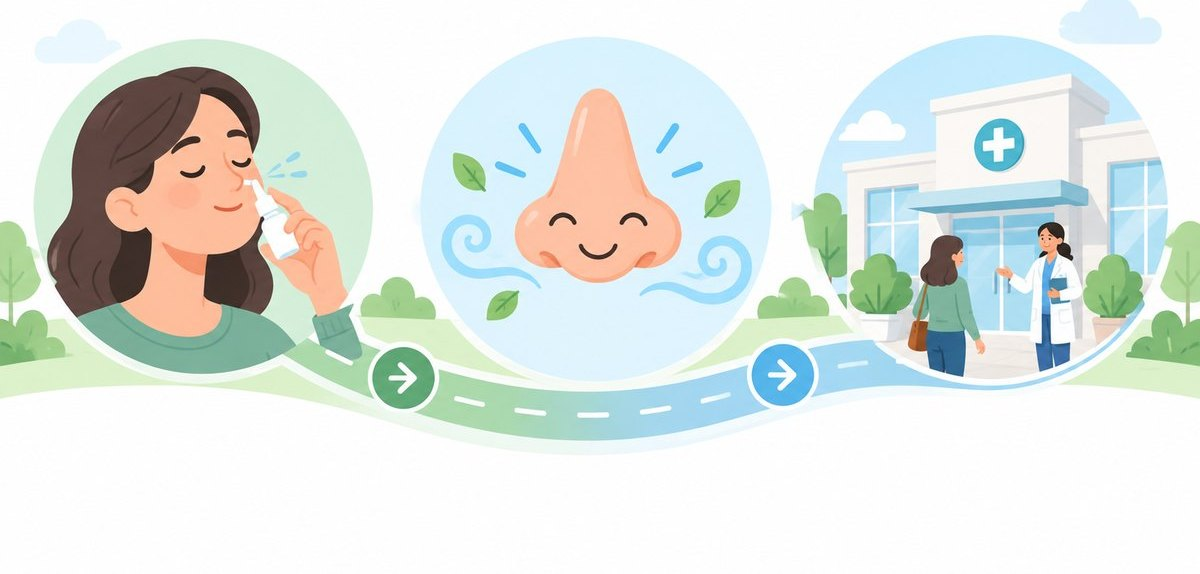
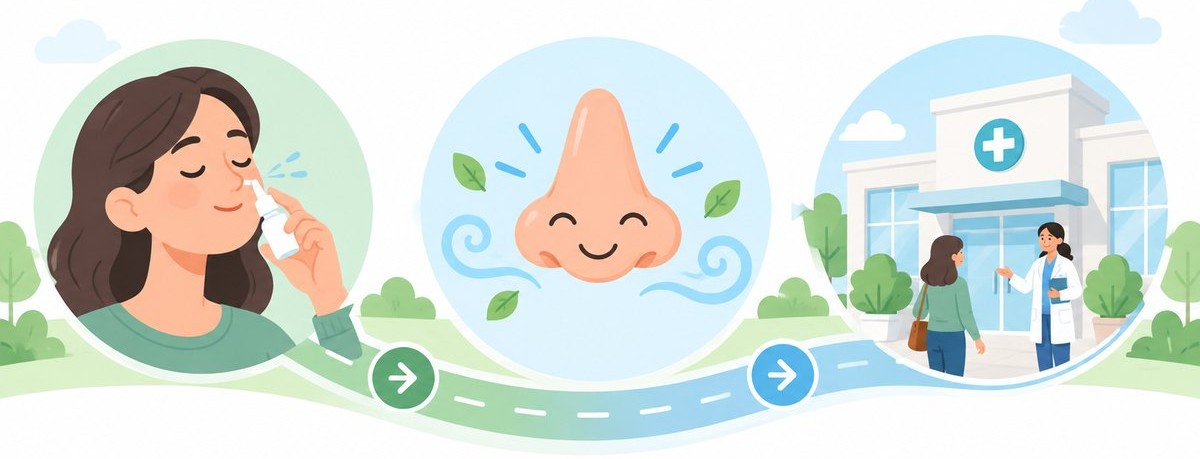
Class 색상 3단계, 회피요법 슬라이드 분리, 슬라이드 8 확대
- Class 색: 1·2 / 3·4 / 5·6 세 가지 색으로 통일, 범례도 묶어서 표시
- 회피요법: 항원 묶음마다 슬라이드 한 장, 설명 글 없이 2x2 그림에서 중요한 3컷만 골라 가로 배치
- 슬라이드 목록을 결과에 따라 동적으로 구성 (buildSlides)
- 슬라이드 8: 그림 아래 여백까지 잘라내고 20% 확대
- "조절하지 않으면…" 문구를 슬라이드 2에서 동반 증상 슬라이드로 이동

Claude-Session: https://claude.ai/code/session_015ywGNUdfsdrnWY8h5XkxCA

diff --git a/src/slides/slides.tsx b/src/slides/slides.tsx
@@ -3,7 +3,7 @@ import { useRise, useReveal, easeOut } from './anim';
 import { Frame, Title, Sub, Em, Tag, ClassLegend, Illust, Footer } from './ui';
 import type { Buckets } from '../lib/classify';
 import { birchCrossReaction } from '../lib/classify';
-import { avoidanceCards } from '../lib/avoidance';
+import { avoidanceCards, type AvoidCard } from '../lib/avoidance';
 import { config } from '../config';
 import type { FamilyResult } from '../lib/types';
 
@@ -105,7 +105,6 @@ export function S2Model() {
   const a = easeOut(r(10, 20));
   const b = easeOut(r(40, 20));
   const c = useRise(90, 24);
-  const d = useRise(125, 24);
   return (
     <Frame>
       <Title>알레르기 비염은 어떤 병인가요?</Title>
@@ -142,12 +141,7 @@ export function S2Model() {
       >
         <Illust src="02b-control-not-cure.jpg" style={{ width: 100, height: 100, borderRadius: 18 }} />
         <div>
-          <div>
-            그래서 목표는 <Em>완치</Em>가 아니라 <Em color="#D62828">잘 조절하는 것</Em>입니다
-          </div>
-          <div style={{ fontSize: 30, fontWeight: 700, color: '#A4161A', marginTop: 8, ...d }}>
-            조절하지 않으면 귀, 목을 거쳐 심장과 폐까지 번집니다.
-          </div>
+          그래서 목표는 <Em>완치</Em>가 아니라 <Em color="#D62828">잘 조절하는 것</Em>입니다
         </div>
       </div>
     </Frame>
@@ -309,61 +303,48 @@ function SeasonRow({
   );
 }
 
-/* 5. 회피요법 */
-export function S5Avoid({ d }: { d: SlideData }) {
-  const cards = avoidanceCards(d.results);
+/* 5. 회피요법 — 항원 묶음마다 한 장, 그림만 */
+export function S5AvoidOne({ c }: { c: AvoidCard }) {
+  const r = useReveal();
+  const single = c.images.length === 1;
+  const fams = c.families.slice(0, 8).join(', ') + (c.families.length > 8 ? ` 외 ${c.families.length - 8}개` : '');
   return (
     <Frame>
-      <Title>원인 항원 피하기</Title>
-      <Sub>완전히 없앨 수는 없지만, 노출을 줄이면 약이 훨씬 잘 듣습니다.</Sub>
+      <Title>{c.title} 피하기</Title>
+      <Sub>{fams}</Sub>
       <div
         style={{
-          display: 'grid',
-          gridTemplateColumns: `repeat(${cards.length <= 3 ? cards.length || 1 : Math.ceil(cards.length / 2)}, 1fr)`,
-          gridAutoRows: '1fr',
-          gap: 20,
+          display: 'flex',
+          gap: 40,
           flex: 1,
           minHeight: 0,
+          alignItems: 'center',
+          justifyContent: 'center',
+          paddingBottom: 10,
         }}
       >
-        {cards.length === 0 && <div style={{ fontSize: 30, color: COLORS.sub }}>양성 항원이 없어 회피요법 카드가 없습니다.</div>}
-        {cards.slice(0, 6).map((c, i) => (
-          <AvoidCardView key={c.key} c={c} delay={15 + i * 15} compact={cards.length > 3} />
-        ))}
+        {c.images.map((src, i) => {
+          const t = easeOut(r(10 + i * 14, 18));
+          return (
+            <Illust
+              key={src}
+              src={src}
+              style={{
+                width: single ? '58%' : undefined,
+                flex: single ? undefined : '1 1 0',
+                minWidth: 0,
+                height: '100%',
+                maxHeight: '100%',
+                objectFit: 'contain',
+                borderRadius: 28,
+                opacity: t,
+                transform: `translateY(${(1 - t) * 30}px)`,
+              }}
+            />
+          );
+        })}
       </div>
     </Frame>
-  );
-}
-
-function AvoidCardView({
-  c,
-  delay,
-  compact,
-}: {
-  c: ReturnType<typeof avoidanceCards>[number];
-  delay: number;
-  compact: boolean;
-}) {
-  const st = useRise(delay);
-  const r = useReveal();
-  const img = compact ? 88 : 120;
-  return (
-    <div style={{ background: '#fff', borderRadius: 24, padding: compact ? 18 : 26, border: `2px solid ${COLORS.line}`, minHeight: 0, overflow: 'hidden', ...st }}>
-      <div style={{ display: 'flex', gap: 16, alignItems: 'center' }}>
-        <Illust src={c.image} style={{ width: img, height: img, borderRadius: 16 }} />
-        <div>
-          <div style={{ fontSize: compact ? 28 : 34, fontWeight: 900 }}>{c.title}</div>
-          <div style={{ fontSize: compact ? 18 : 20, color: COLORS.sub }}>{c.families.slice(0, 8).join(', ')}{c.families.length > 8 ? ` 외 ${c.families.length - 8}개` : ''}</div>
-        </div>
-      </div>
-      <ul style={{ margin: compact ? '10px 0 0' : '18px 0 0', paddingLeft: 28, fontSize: compact ? 21 : 25, lineHeight: 1.5 }}>
-        {c.tips.map((t, i) => (
-          <li key={i} style={{ opacity: easeOut(r(delay + 12 + i * 6, 12)) }}>
-            {t}
-          </li>
-        ))}
-      </ul>
-    </div>
   );
 }
 
@@ -377,10 +358,30 @@ const COMORBID = [
 ];
 export function S6Comorbid() {
   const r = useReveal();
+  const warn = useRise(8, 22);
   return (
     <Frame>
       <Title>함께 나타날 수 있는 증상·질환</Title>
       <Sub>비염만 있는 게 아니라 아래 증상이 같이 있는 경우가 많습니다. 해당되면 말씀해 주세요.</Sub>
+      <div
+        style={{
+          display: 'flex',
+          alignItems: 'center',
+          gap: 16,
+          alignSelf: 'flex-start',
+          margin: '2px 0 14px',
+          padding: '12px 28px',
+          background: COLORS.beige,
+          borderRadius: 18,
+          fontSize: 30,
+          fontWeight: 800,
+          color: '#9D0208',
+          ...warn,
+        }}
+      >
+        <span style={{ fontSize: 30 }}>⚠</span>
+        조절하지 않으면 귀, 목을 거쳐 심장과 폐까지 번집니다.
+      </div>
       <div style={{ display: 'flex', gap: 30, flex: 1, alignItems: 'center' }}>
         <Illust src="06-comorbid.jpg" fade="right" style={{ width: 608, height: 512, objectFit: 'cover', objectPosition: 'left center', marginLeft: -40 }} />
         <div style={{ flex: 1, display: 'flex', flexDirection: 'column', gap: 18 }}>
@@ -469,7 +470,7 @@ export function S8Timeline() {
   return (
     <Frame>
       <Title>언제 좋아지고, 언제 다시 오나요?</Title>
-      <Illust src="08-timeline-crop.jpg" style={{ width: '70%', height: 'auto', margin: '-6px auto 0', borderRadius: 20 }} />
+      <Illust src="08-timeline-crop.jpg" style={{ width: '84%', height: 'auto', margin: '-6px auto 0', borderRadius: 20 }} />
       <div style={{ position: 'relative', marginTop: 30, flex: 1 }}>
         <div
           style={{
@@ -536,14 +537,29 @@ export function S9Future() {
   );
 }
 
-export const SLIDES: { key: string; title: string; render: (d: SlideData) => React.ReactNode; frames: number }[] = [
-  { key: 'diagnosis', title: '진단', render: (d) => <S1Diagnosis d={d} />, frames: 90 },
-  { key: 'model', title: '질병 모델', render: () => <S2Model />, frames: 170 },
-  { key: 'report', title: '결과지', render: (d) => <S3Report d={d} />, frames: 60 },
-  { key: 'allergens', title: '원인 항원', render: (d) => <S4Allergens d={d} />, frames: 150 },
-  { key: 'avoid', title: '회피요법', render: (d) => <S5Avoid d={d} />, frames: 150 },
-  { key: 'comorbid', title: '동반 증상', render: () => <S6Comorbid />, frames: 120 },
-  { key: 'treatment', title: '치료 계획', render: () => <S7Treatment />, frames: 100 },
-  { key: 'timeline', title: '효과·재진', render: () => <S8Timeline />, frames: 100 },
-  { key: 'future', title: '향후 옵션', render: () => <S9Future />, frames: 90 },
-];
+export interface SlideDef {
+  key: string;
+  title: string;
+  render: (d: SlideData) => React.ReactNode;
+  frames: number;
+}
+
+export function buildSlides(d: SlideData): SlideDef[] {
+  const avoid: SlideDef[] = avoidanceCards(d.results).map((c) => ({
+    key: `avoid-${c.key}`,
+    title: `회피 — ${c.title}`,
+    render: () => <S5AvoidOne c={c} />,
+    frames: 90,
+  }));
+  return [
+    { key: 'diagnosis', title: '진단', render: (x) => <S1Diagnosis d={x} />, frames: 90 },
+    { key: 'model', title: '질병 모델', render: () => <S2Model />, frames: 170 },
+    { key: 'report', title: '결과지', render: (x) => <S3Report d={x} />, frames: 60 },
+    { key: 'allergens', title: '원인 항원', render: (x) => <S4Allergens d={x} />, frames: 150 },
+    ...avoid,
+    { key: 'comorbid', title: '동반 증상', render: () => <S6Comorbid />, frames: 130 },
+    { key: 'treatment', title: '치료 계획', render: () => <S7Treatment />, frames: 100 },
+    { key: 'timeline', title: '효과·재진', render: () => <S8Timeline />, frames: 100 },
+    { key: 'future', title: '향후 옵션', render: () => <S9Future />, frames: 90 },
+  ];
+}

diff --git a/src/components/SlideShow.tsx b/src/components/SlideShow.tsx
@@ -1,7 +1,7 @@
 import { useCallback, useEffect, useMemo, useRef, useState } from 'react';
 import { Player, type PlayerRef } from '@remotion/player';
 import { RemotionAnim, StaticAnim } from '../slides/anim';
-import { SLIDES, type SlideData } from '../slides/slides';
+import { buildSlides, type SlideData } from '../slides/slides';
 import { W, H, FPS } from '../slides/theme';
 
 interface Props {
@@ -11,14 +11,16 @@ interface Props {
 }
 
 function SlideComp({ data, index }: { data: SlideData; index: number }) {
-  return <RemotionAnim>{SLIDES[index].render(data)}</RemotionAnim>;
+  const slides = useMemo(() => buildSlides(data), [data]);
+  return <RemotionAnim>{slides[index].render(data)}</RemotionAnim>;
 }
 
 export function SlideShow({ data, onExit, saveStatus }: Props) {
   const [i, setI] = useState(0);
   const [printing, setPrinting] = useState(false);
   const ref = useRef<PlayerRef>(null);
-  const n = SLIDES.length;
+  const slides = useMemo(() => buildSlides(data), [data]);
+  const n = slides.length;
 
   const next = useCallback(() => setI((x) => Math.min(n - 1, x + 1)), [n]);
   const prev = useCallback(() => setI((x) => Math.max(0, x - 1)), []);
@@ -42,11 +44,11 @@ export function SlideShow({ data, onExit, saveStatus }: Props) {
       if (done) return; // seekTo가 다시 ended를 일으키므로 한 번만
       done = true;
       p.pause();
-      p.seekTo(SLIDES[i].frames - 1);
+      p.seekTo(slides[i].frames - 1);
     };
     p.addEventListener('ended', onEnded);
     return () => p.removeEventListener('ended', onEnded);
-  }, [i]);
+  }, [i, slides]);
 
   useEffect(() => {
     if (!printing) return;
@@ -64,10 +66,10 @@ export function SlideShow({ data, onExit, saveStatus }: Props) {
   if (printing) {
     return (
       <div className="print-root">
-        {SLIDES.map((s, k) => (
+        {slides.map((s, k) => (
           <div className="print-page" key={s.key}>
             <div className="print-scale">
-              <StaticAnim>{SLIDES[k].render(data)}</StaticAnim>
+              <StaticAnim>{slides[k].render(data)}</StaticAnim>
             </div>
           </div>
         ))}
@@ -79,7 +81,7 @@ export function SlideShow({ data, onExit, saveStatus }: Props) {
     <div className="show" onClick={next}>
       <div className="show-top" onClick={(e) => e.stopPropagation()}>
         <span className="counter">
-          {i + 1} / {n} · {SLIDES[i].title}
+          {i + 1} / {n} · {slides[i].title}
         </span>
         <span className="save">{saveStatus}</span>
         <button onClick={prev} disabled={i === 0} title="이전 (←)">
@@ -101,7 +103,7 @@ export function SlideShow({ data, onExit, saveStatus }: Props) {
           ref={ref}
           component={SlideComp}
           inputProps={inputProps}
-          durationInFrames={SLIDES[i].frames}
+          durationInFrames={slides[i].frames}
           fps={FPS}
           compositionWidth={W}
           compositionHeight={H}

diff --git a/src/lib/avoidance.ts b/src/lib/avoidance.ts
@@ -4,6 +4,8 @@ export interface AvoidCard {
   key: string;
   title: string;
   image: string;
+  /** 슬라이드에 가로로 배치할 그림 (중요한 순서) */
+  images: string[];
   tips: string[];
   /** 이 카드에 해당하는 항원 family 목록 */
   families: string[];
@@ -24,6 +26,7 @@ export function avoidanceCards(results: FamilyResult[]): AvoidCard[] {
       key: 'mite',
       title: '집먼지진드기',
       image: '05-avoid-mite.jpg',
+      images: ['05-avoid-mite-1.jpg', '05-avoid-mite-2.jpg', '05-avoid-mite-3.jpg'],
       families: mite.map((r) => r.family),
       tips: [
         '침구는 55~60℃ 뜨거운 물로 1~2주마다 세탁',
@@ -39,6 +42,7 @@ export function avoidanceCards(results: FamilyResult[]): AvoidCard[] {
       key: 'pet',
       title: '동물 털·비듬',
       image: '05-avoid-pet.jpg',
+      images: ['05-avoid-pet-1.jpg', '05-avoid-pet-2.jpg', '05-avoid-pet-3.jpg'],
       families: pet.map((r) => r.family),
       tips: [
         '침실에는 동물이 들어오지 않게',
@@ -54,6 +58,7 @@ export function avoidanceCards(results: FamilyResult[]): AvoidCard[] {
       key: 'mold',
       title: '곰팡이',
       image: '05-avoid-mold.jpg',
+      images: ['05-avoid-mold-1.jpg', '05-avoid-mold-2.jpg', '05-avoid-mold-3.jpg'],
       families: mold.map((r) => r.family),
       tips: [
         '욕실·주방은 사용 후 환풍기, 물기 제거',
@@ -68,7 +73,8 @@ export function avoidanceCards(results: FamilyResult[]): AvoidCard[] {
     cards.push({
       key: 'roach',
       title: '바퀴벌레',
-      image: '05-avoid-mold.jpg',
+      image: '04-perennial.jpg',
+      images: ['04-perennial.jpg'],
       families: ['바퀴벌레'],
       tips: ['음식물은 밀폐 보관, 싱크대 물기 제거', '틈새 막기·전문 방제', '쓰레기는 바로 비우기'],
     });
@@ -84,6 +90,7 @@ export function avoidanceCards(results: FamilyResult[]): AvoidCard[] {
       key: 'pollen',
       title: `꽃가루 — ${when}`,
       image: '05-avoid-pollen.jpg',
+      images: ['05-avoid-pollen-1.jpg', '05-avoid-pollen-2.jpg', '05-avoid-pollen-3.jpg'],
       families: pollen.map((r) => r.family),
       tips: [
         '꽃가루 철에는 외출 시 마스크·안경',
@@ -100,6 +107,7 @@ export function avoidanceCards(results: FamilyResult[]): AvoidCard[] {
       key: 'food',
       title: '음식·교차반응',
       image: '04-food-cross.jpg',
+      images: ['04-food-cross.jpg'],
       families: food.map((r) => r.family),
       tips: [
         '검사 양성 ≠ 반드시 먹으면 안 됨',

diff --git a/src/slides/ui.tsx b/src/slides/ui.tsx
@@ -109,9 +109,13 @@ export function ClassLegend({ delay = 0 }: { delay?: number }) {
   return (
     <div style={{ display: 'flex', gap: 18, alignItems: 'center', fontSize: 22, color: COLORS.sub, ...st }}>
       <span>정도:</span>
-      {[1, 2, 3, 4, 5, 6].map((c) => (
-        <span key={c} style={{ color: CLASS_COLOR[c], fontWeight: 900 }}>
-          Class {c}
+      {[
+        [1, 2],
+        [3, 4],
+        [5, 6],
+      ].map(([a, b]) => (
+        <span key={a} style={{ color: CLASS_COLOR[a], fontWeight: 900 }}>
+          Class {a}·{b}
         </span>
       ))}
       <span style={{ marginLeft: 8 }}>→ 숫자가 클수록 반응이 강합니다</span>

diff --git a/src/slides/theme.ts b/src/slides/theme.ts
@@ -9,15 +9,15 @@ export const COLORS = {
   line: '#D9E4DF',
 };
 
-/** Class별 글자색: 1 노랑 → 6 검붉음 */
+/** Class별 글자색: 1·2 / 3·4 / 5·6 세 단계 */
 export const CLASS_COLOR: Record<number, string> = {
   0: '#B8C2C4',
-  1: '#D4A800',
-  2: '#F08A00',
-  3: '#E85D04',
-  4: '#D62828',
-  5: '#A4161A',
-  6: '#6A040F',
+  1: '#E0A200',
+  2: '#E0A200',
+  3: '#E4610A',
+  4: '#E4610A',
+  5: '#9D0208',
+  6: '#9D0208',
 };
 export const CLASS_LABEL: Record<number, string> = {
   1: '낮음',
